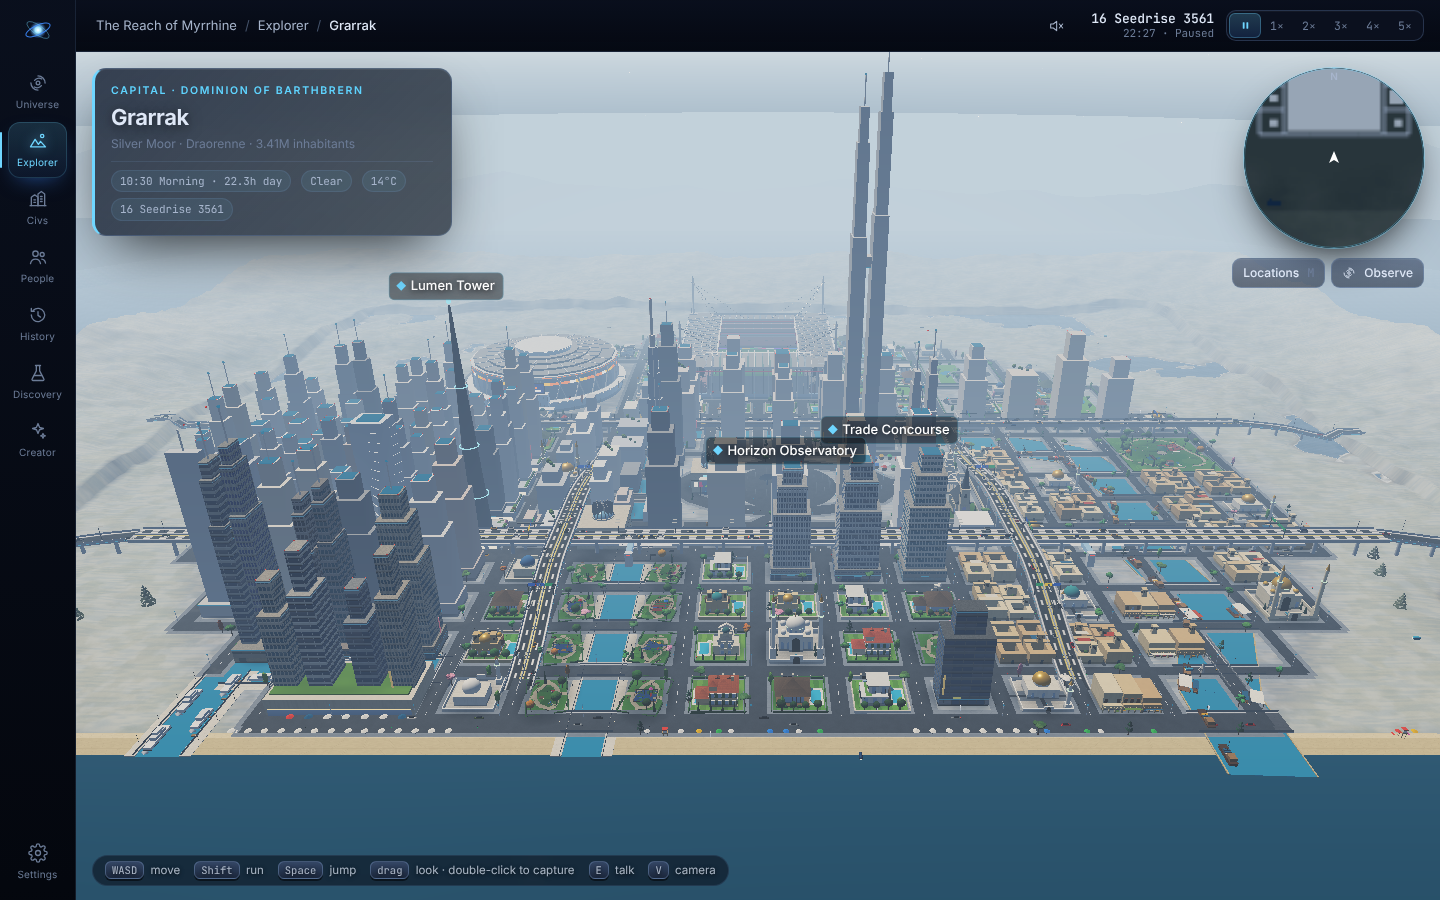
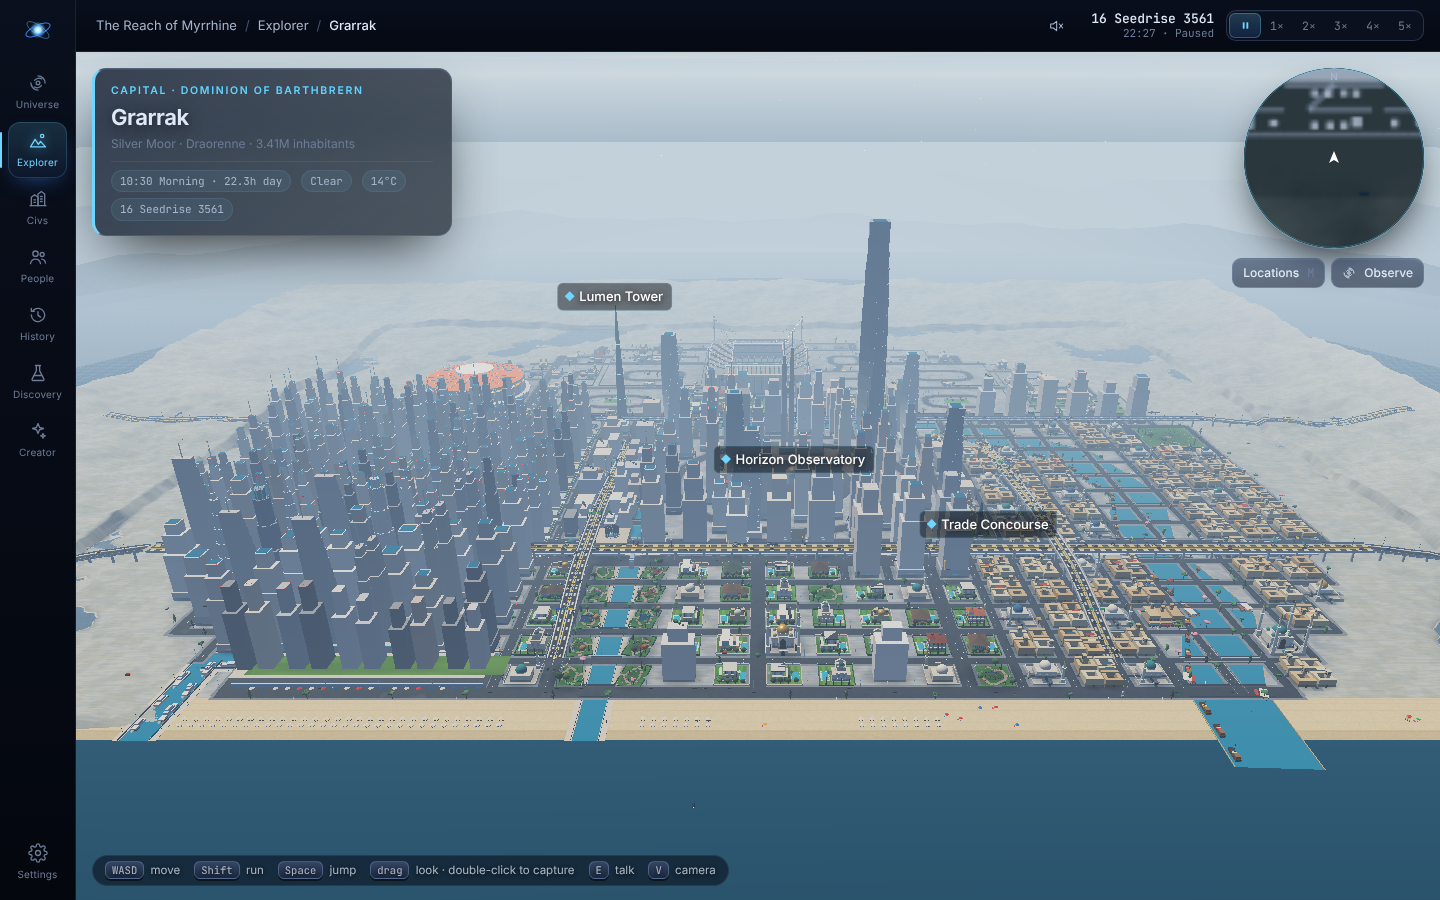
Bigger capital (520 m), road hierarchy, roundabouts, expressways out of town, Downtown tower rings
Claude-Session: https://claude.ai/code/session_014yo4DpHJhzR4RbKay17FEp

diff --git a/src/explorer/layout.ts b/src/explorer/layout.ts
@@ -85,11 +85,13 @@ export interface CityFeatures {
   jbr: { x0: number; x1: number; z0: number; z1: number } | null;
   jlt: { x: number; z: number; s: number }[];
   compounds: { x: number; z: number; w: number; d: number }[];
+  /** Centres of roundabouts at collector crossings. */
+  roundabouts: [number, number][];
 }
 
 export function settlementRadius(s: Settlement): number {
   // futuristic cities are laid out in districts (downtown, villa estates, souk, mixed), which need room
-  if (s.style === 'futuristic') return s.kind === 'capital' ? 340 : s.kind === 'city' ? 250 : s.kind === 'town' ? 150 : 95;
+  if (s.style === 'futuristic') return s.kind === 'capital' ? 520 : s.kind === 'city' ? 380 : s.kind === 'town' ? 150 : 95;
   return s.kind === 'capital' ? 175 : s.kind === 'city' ? 145 : s.kind === 'town' ? 110 : 75;
 }
 
@@ -212,7 +214,7 @@ function futuristic(s: Settlement, rng: Rng): Layout {
 
   // ── bands, parallel to the coast
   const shoreZ = -0.76 * R;
-  const coastRoadZ = snap(shoreZ + 12);
+  const coastRoadZ = Math.ceil((shoreZ + 12) / sp) * sp;
   const spineZ = snap(-0.36 * R);
   const arterialZ = Math.max(snap(0.36 * R), spineZ + 4 * sp);
   const canalZ = arterialZ - sp;
@@ -384,7 +386,7 @@ function futuristic(s: Settlement, rng: Rng): Layout {
     const cz = (dZ0 + dZ1) / 2;
     const a = W / 2 - 22;
     const b = D / 2 - 18;
-    const lake = { x: cx, z: cz, rx: Math.max(18, a - 34), rz: Math.max(12, b - 16) };
+    const lake = { x: cx, z: cz, rx: Math.max(18, Math.min(a - 34, a * 0.5)), rz: Math.max(12, Math.min(b - 16, b * 0.5)) };
     lakes.push({ ...lake, island: 14 });
     downtownF = { x: cx, z: cz, a, b, x0: dX0, x1: dX1, z0: dZ0, z1: dZ1 };
     plaza = { x: cx, z: cz, r: lake.rx };
@@ -405,6 +407,25 @@ function futuristic(s: Settlement, rng: Rng): Layout {
     add({ x: cx - lake.rx - 13, z: cz, w: 20, d: 20, h: sigH, kind: 'supertall', role: 'work', door: [cx - lake.rx - 13, cz - 12], district: 'downtown' });
     signature = true;
     add({ x: cx + lake.rx + 15, z: cz, w: 24, d: 22, h: 15, kind: 'mall', role: 'work', door: [cx + lake.rx + 15, cz - 12], district: 'downtown' });
+    // a wall of towers on both sides of the ring boulevard, the inner ones facing the lake, like
+    // the towers around the Burj lake; gaps where the boulevard's four links leave the ring
+    const ringTowers = (ra: number, rb: number, gaps: number[], hMin: number, hMax: number, size: number) => {
+      const per = Math.PI * Math.sqrt((ra * ra + rb * rb) / 2) * 2;
+      const m = Math.floor(per / 30);
+      for (let q = 0; q < m; q++) {
+        const t = (q / m) * Math.PI * 2 + 0.13;
+        if (gaps.some((g) => Math.abs(Math.atan2(Math.sin(t - g), Math.cos(t - g))) < 0.3)) continue;
+        const tx = cx + Math.cos(t) * ra;
+        const tz = cz + Math.sin(t) * rb;
+        if (tx < dX0 + 9 || tx > dX1 - 9 || tz < dZ0 + 9 || tz > dZ1 - 9) continue;
+        const h = rng.range(hMin, hMax);
+        add({ x: tx, z: tz, w: size, d: size, h, kind: h > 100 ? 'supertall' : 'tower', role: 'work', door: [tx, tz - size / 2 - 1], district: 'downtown' });
+      }
+    };
+    if (a > 90) {
+      ringTowers((a + lake.rx) / 2 + 2, (b + lake.rz) / 2 + 2, [0, Math.PI], 55, 125, 13);
+      ringTowers(a + 15, b + 14, [0, Math.PI / 2, Math.PI, -Math.PI / 2], 45, 105, 13);
+    }
     for (const sx of [-1, 1])
       for (const sz of [-1, 1]) {
         const tx = cx + sx * (W / 2 - 12);
@@ -762,7 +783,7 @@ function futuristic(s: Settlement, rng: Rng): Layout {
       jlt.push({ x, z, s: 26 });
       for (let q = 0; q < 3; q++) {
         const t = (q / 3) * Math.PI * 2 + 0.5;
-        add({ x: x + Math.cos(t) * 7, z: z + Math.sin(t) * 7, w: 11, d: 11, h: rng.range(45, 88), kind: 'tower', role: rng.chance(0.5) ? 'work' : 'home', door: [x, z - sp / 2 + 0.01], district: 'marina' });
+        add({ x: x + Math.cos(t) * 8, z: z + Math.sin(t) * 8, w: 9, d: 9, h: rng.range(45, 88), kind: 'tower', role: rng.chance(0.5) ? 'work' : 'home', door: [x, z - sp / 2 + 0.01], district: 'marina' });
       }
     }
   }
@@ -830,7 +851,14 @@ function futuristic(s: Settlement, rng: Rng): Layout {
     }));
   const edges: [number, number][] = [];
   const streets: Layout['streets'] = [];
-  const widthOf = (az: number, bz: number) => (az === bz ? (az === spineZ ? 16 : az === coastRoadZ ? 12 : az === arterialZ ? 14 : 8) : 8);
+  // road hierarchy: boulevards (spine, coastal road, arterial), collectors every fourth grid line,
+  // local streets between them; villa quarters get lanes only, no through cross-streets
+  const majorV = (x: number) => Math.round(x / sp) % 4 === 0;
+  const majorH = (z: number) => z === spineZ || z === coastRoadZ || z === arterialZ || (z > arterialZ && Math.round(z / sp) % 4 === 0);
+  const widthOf = (ax: number, az: number, bz: number) =>
+    az === bz ? (az === spineZ ? 16 : az === coastRoadZ ? 12 : az === arterialZ ? 14 : majorH(az) ? 11 : 7) : majorV(ax) ? 11 : 7;
+  const villaZone = (z: Zone) => z === 'coast' || z === 'outer' || z === 'estate';
+  const roundabouts: [number, number][] = [];
   for (const [key, a] of idx) {
     const [i, j] = key.split(',').map(Number);
     for (const [di, dj] of [
@@ -844,9 +872,13 @@ function futuristic(s: Settlement, rng: Rng): Layout {
       const [ax, az] = nodes[a];
       const [bx, bz] = nodes[b];
       if (onCanal(ax, az, bx, bz)) continue;
+      if (ax === bx && !majorV(ax)) {
+        const zm = (az + bz) / 2;
+        if (villaZone(zoneOf(ax - sp / 2, zm)) && villaZone(zoneOf(ax + sp / 2, zm))) continue;
+      }
       edges.push([a, b]);
       const oldLane = ax < oldTownX && bx <= oldTownX && az < canalZ && bz < canalZ && az > coastRoadZ && bz > coastRoadZ;
-      streets.push({ a: nodes[a], b: nodes[b], w: oldLane ? 6 : widthOf(az, bz) });
+      streets.push({ a: nodes[a], b: nodes[b], w: oldLane ? 6 : widthOf(ax, az, bz) });
     }
   }
   // extra links (ring, estate roads): snap their ends to existing nodes where they meet them
@@ -868,7 +900,19 @@ function futuristic(s: Settlement, rng: Rng): Layout {
   void signature;
 
   const graph = makeGraph(nodes, edges);
-  const lights: [number, number][] = nodes.filter((_, q) => graph.adj[q].length > 0 && rng.chance(0.85));
+  // roundabouts where two collectors cross (never under the spine expressway or beside Downtown)
+  for (let q = 0; q < nodes.length; q++) {
+    const [x, z] = nodes[q];
+    if (graph.adj[q].length !== 4 || !(majorV(x) || majorH(z)) || z === spineZ || z === coastRoadZ || z === arterialZ - sp) continue;
+    // only where wide roads meet: at least two of the four arms are collectors or boulevards
+    if (streets.filter((st) => st.w >= 11 && ((st.a[0] === x && st.a[1] === z) || (st.b[0] === x && st.b[1] === z))).length < 2) continue;
+    if (roundabouts.some(([rx, rz]) => Math.hypot(rx - x, rz - z) < 140)) continue;
+    if (downtownF && x > downtownF.x0 - sp && x < downtownF.x1 + sp && z > downtownF.z0 - sp && z < downtownF.z1 + sp) continue;
+    if (nearWater(x, z, 14) || Math.hypot(x, z) > R - 20) continue;
+    roundabouts.push([x, z]);
+  }
+  // no traffic lights on roundabouts
+  const lights: [number, number][] = nodes.filter(([x, z], q) => graph.adj[q].length > 0 && rng.chance(0.85) && !roundabouts.some(([rx, rz]) => rx === x && rz === z));
   const chordSpine = chord(spineZ);
   const features: CityFeatures = {
     shoreZ,
@@ -883,6 +927,7 @@ function futuristic(s: Settlement, rng: Rng): Layout {
     jbr,
     jlt,
     compounds,
+    roundabouts,
   };
   const avoid = (x: number, z: number) => z < coastRoadZ + 8 || nearWater(x, z, 16) || lakes.some((l) => ((x - l.x) / (l.rx + 10)) ** 2 + ((z - l.z) / (l.rz + 10)) ** 2 < 1);
   const out = finish('futuristic', s, rng, R, kept, streets, graph, [plaza], lights, sp, avoid);

diff --git a/src/explorer/City.tsx b/src/explorer/City.tsx
@@ -409,7 +409,8 @@ export function City({ layout, t, quality, civColor }: { layout: Layout; t: Terr
     };
     if (layout.style === 'cloud' || layout.style === 'wild') return out;
     const rng = new Rng(Math.round(layout.radius * 31) + layout.buildings.length * 7 + 3);
-    const blocked = (x: number, z: number) => layout.colliders.some((c) => Math.abs(c.x - x) < c.hw + 1.4 && Math.abs(c.z - z) < (c.type === 'circle' ? c.hw : c.hd) + 1.4) || layout.landmarks.some((l) => Math.hypot(l.x - x, l.z - z) < l.radius + 2);
+    const rbs = layout.features?.roundabouts ?? [];
+    const blocked = (x: number, z: number) => rbs.some(([rx, rz]) => Math.hypot(rx - x, rz - z) < 16) || layout.colliders.some((c) => Math.abs(c.x - x) < c.hw + 1.4 && Math.abs(c.z - z) < (c.type === 'circle' ? c.hw : c.hd) + 1.4) || layout.landmarks.some((l) => Math.hypot(l.x - x, l.z - z) < l.radius + 2);
     const green = layout.style === 'futuristic' ? '#4f8f4a' : layout.style === 'organic' ? '#3f7a3a' : '#5a8a3e';
     for (const s of layout.streets) {
       const dx = s.b[0] - s.a[0];
@@ -493,7 +494,7 @@ export function City({ layout, t, quality, civColor }: { layout: Layout; t: Terr
       const B = (x: number, y: number, z: number, sx: number, sy: number, sz: number, c: string, rot = 0, lit = false) => (lit ? out.lit : out.boxes).push({ m: mat(x, y, z, sx, sy, sz, rot), c: new THREE.Color(c), x, z });
       layout.graph.nodes.forEach(([nxp, nzp], ni) => {
         const deg = layout.graph.adj[ni]?.length ?? 0;
-        if (deg < 3) return;
+        if (deg < 3 || rbs.some(([rx, rz]) => rx === nxp && rz === nzp)) return;
         const futur = layout.style === 'futuristic';
         for (const nb of layout.graph.adj[ni]) {
           const [bx, bz] = layout.graph.nodes[nb];

diff --git a/tests/world3d.test.ts b/tests/world3d.test.ts
@@ -180,6 +180,27 @@ describe('futuristic districts', () => {
   const w = freshWorld();
   const cities = Object.values(w.settlements).filter((s) => generateLayout(s).style === 'futuristic');
 
+  it('never overlaps two buildings in a futuristic city, and puts roundabouts on collector crossings', () => {
+    for (const s of cities) {
+      const l = generateLayout(s);
+      const solid = l.buildings.filter((b) => !b.plot && b.kind !== 'park' && b.kind !== 'stadium' && b.kind !== 'arena');
+      for (let i = 0; i < solid.length; i++)
+        for (let j = i + 1; j < solid.length; j++) {
+          const a = solid[i];
+          const b = solid[j];
+          const ox = (a.w + b.w) / 2 - Math.abs(a.x - b.x);
+          const oz = (a.d + b.d) / 2 - Math.abs(a.z - b.z);
+          if (ox > 0.5 && oz > 0.5) throw new Error(`${s.kind}: ${a.kind}@${a.x.toFixed(0)},${a.z.toFixed(0)} overlaps ${b.kind}@${b.x.toFixed(0)},${b.z.toFixed(0)}`);
+        }
+      if (s.kind === 'capital') {
+        expect(l.radius).toBeGreaterThanOrEqual(500);
+        expect(l.features!.roundabouts.length).toBeGreaterThan(2);
+        // every roundabout sits on a street crossing
+        for (const [x, z] of l.features!.roundabouts) expect(l.streets.filter((st) => (st.a[0] === x && st.a[1] === z) || (st.b[0] === x && st.b[1] === z)).length).toBe(4);
+      }
+    }
+  });
+
   it('lays large futuristic cities out as a coastal corridor of districts', () => {
     const big = cities.filter((s) => s.kind === 'capital' || s.kind === 'city');
     expect(big.length).toBeGreaterThan(0);

diff --git a/src/explorer/cityFeatures.ts b/src/explorer/cityFeatures.ts
@@ -28,6 +28,25 @@ export function cityFeatures(out: DistrictData, layout: Layout, y0: number, warm
   metro(add, f, r);
   for (const e of f.estates) estate(out, add, e, r, warm);
   for (const c of f.compounds) compound(add, c);
+  for (const [x, z] of f.roundabouts ?? []) roundabout(add, x, z, r, warm);
+}
+
+/** A roundabout: an asphalt circle over the crossing, a kerbed planted island, a palm or a fountain. */
+function roundabout(add: Add, x: number, z: number, r: (k: number) => number, warm: boolean) {
+  const k = Math.abs(x * 3.1 + z * 7.7);
+  add('cyl', 'stone', x, 0, z, 26, 0.075, 26, '#454b54');
+  // the white give-way ring painted around the island
+  add('ring', 'paint', x, 0.08, z, 21, 0.02, 21, '#e8e8e2');
+  add('cyl', 'stone', x, 0, z, 15, 0.35, 15, '#c9c3b5');
+  add('cyl', 'lawn', x, 0.35, z, 13.6, 0.1, 13.6, '#5e9a48');
+  if (r(k) < 0.4) {
+    fountain(add, x, z, 5, true);
+  } else if (warm) {
+    for (let q = 0; q < 3; q++) palm(add, x + Math.cos(q * 2.1) * 2.6, z + Math.sin(q * 2.1) * 2.6, 7 + r(k + q) * 3, r, k + q * 5, 0.45);
+  } else {
+    roundTree(add, x, z, 6, '#4f7f3c', r, k);
+  }
+  for (let q = 0; q < 10; q++) add('sphere', 'leaf', x + Math.cos(q * 0.63) * 5.4, 0.45, z + Math.sin(q * 0.63) * 5.4, 1.4, 0.8, 1.4, q % 2 ? '#c84a7a' : '#4f8a3a');
 }
 
 // ───────────────────────── Sea and beach ─────────────────────────

diff --git a/src/explorer/roadNetwork.ts b/src/explorer/roadNetwork.ts
@@ -184,6 +184,15 @@ function corridorHighways(layout: Layout, t: TerrainData): HighwayData {
         ramp.push(new THREE.Vector3(x, level(s * half, z, h) * (1 - k) + (t.height(x, z) + 0.3) * k, z));
       }
       if (ramp.length > 3) roads.push(finishRoad('ramp', s > 0 ? ramp : ramp, width - 4, 1, false, true));
+      // the expressway carries on out of town at ground level to the edge of the map, so it
+      // leads somewhere instead of stopping in the fields
+      const out: THREE.Vector3[] = [];
+      for (let d = 96; ; d += 8) {
+        const x = s * (half + d);
+        if (!inWorld(x, z)) break;
+        out.push(new THREE.Vector3(x, t.height(x, z) + 0.35, z));
+      }
+      if (out.length > 2) roads.push(finishRoad('express', out, width, lanes, false, true));
     }
   };
   alongX(f.spineZ, 13, chord(f.spineZ) + 30, 15, 3);

diff --git a/src/explorer/terrain.ts b/src/explorer/terrain.ts
@@ -92,7 +92,7 @@ export function generateTerrain(planet: Planet, regionIndex: number, biome: Biom
   const look = biomeLook(biome, planet);
   // big district cities need more room before the framing mountains begin; the grid grows with
   // the area so detail per metre stays the same
-  const size = flatRadius > 300 ? 1200 : flatRadius > 240 ? 960 : WORLD_SIZE;
+  const size = flatRadius > 450 ? 1640 : flatRadius > 300 ? 1200 : flatRadius > 240 ? 960 : WORLD_SIZE;
   const res = Math.round((TERRAIN_RES * size) / WORLD_SIZE);
   const heights = new Float32Array((res + 1) * (res + 1));
   const ridged = biome === 'mountain' || biome === 'volcanic';

diff --git a/src/ui/pages/ExplorerPage.tsx b/src/ui/pages/ExplorerPage.tsx
@@ -84,6 +84,7 @@ function Explorer({ target }: { target: Target }) {
   const vegetation = useMemo(() => generateVegetation(terrain, layout, quality), [terrain, layout, quality]);
   sceneDebug.footprints = vegetation.structures.footprints;
   sceneDebug.buildings = layout.buildings.map((b) => ({ x: b.x, z: b.z, w: b.w, d: b.d, h: b.h, kind: b.kind, district: b.district, tone: b.tone }));
+  (sceneDebug as { roundabouts?: [number, number][] }).roundabouts = layout.features?.roundabouts ?? [];
   sceneDebug.poi = vegetation.poi;
   sceneDebug.shore = useMemo(() => {
     if (terrain.waterLevel === null) return null;

diff --git a/src/explorer/SkyWeather.tsx b/src/explorer/SkyWeather.tsx
@@ -162,7 +162,7 @@ export function SkyWeather({ planet, system, quality, warm = false, cold = false
       const dense = wx === 'fog' ? 0.25 : wx === 'dust' ? 0.35 : wx === 'storm' ? 0.5 : wx === 'snow' ? 0.85 : wx === 'rain' ? 0.65 : 1;
       // a long, clear haze so a whole city reads from the air
       scene.fog.near = 80 * dense;
-      scene.fog.far = (quality === 'low' ? 900 : 1700) * dense;
+      scene.fog.far = (quality === 'low' ? 1100 : 2600) * dense;
     }
     scene.background = fogColor;
     if (stars.current) (stars.current.material as THREE.PointsMaterial).opacity = night * (1 - overcast);

diff --git a/PHASE2_REPORT.md b/PHASE2_REPORT.md
@@ -639,3 +639,27 @@ Screenshots are in `docs/screenshots/corridor/`. The corridor test in `tests/wor
 - every mosque catchment is covered;
 - there are 2 compounds, the estates exist and the parks come in varied sizes;
 - the express roads and ramps are in place.
+
+## Phase 10: a bigger capital and a real road hierarchy
+
+**Size.** The futuristic capital's radius goes from 340 m to 520 m, so it is about 1.04 km across (a city is 380 m). The terrain grows to 1.64 km. A capital now holds about 690 buildings, up from about 250. Fog was pushed back so the whole corridor reads from the air.
+
+**Roads**, from widest to narrowest:
+- **Boulevards:** the spine (16 m), the arterial (14 m) and the coastal road (12 m).
+- **Collector roads (11 m):** every fourth grid line.
+- **Local streets (7 m):** the grid lines between collectors.
+- **Old-town lanes (6 m).**
+
+In villa quarters there are no through cross-streets between collectors, only lanes, so traffic stays on the collectors as it does in Dubai's residential superblocks.
+
+**Roundabouts** go where wide roads meet, away from the spine, the coastal road and Downtown, and at least 140 m apart. Each has an asphalt circle, a white give-way ring, a kerbed planted island and a fountain, palms or a tree. There are no traffic lights, zebra crossings or kerb furniture on them.
+
+**Expressways** no longer stop in the fields. Past their ramps they carry on at ground level to the edge of the map.
+
+**Downtown** had become an empty plaza at the new size. It now has towers on both sides of the ring boulevard, around a smaller lake.
+
+**Fix:** the three towers of each JLT-style cluster overlapped one another. They are now 9 m towers set 8 m from the cluster centre.
+
+**Tests:** a new test checks that no two buildings in a futuristic city overlap. It also checks that the capital is at least 500 m in radius and that every roundabout sits on a 4-way crossing.
+
+Screenshots and the plan map are in `docs/screenshots/corridor/`.
